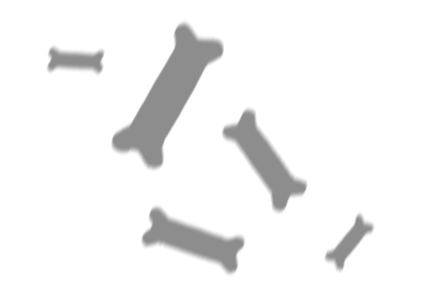
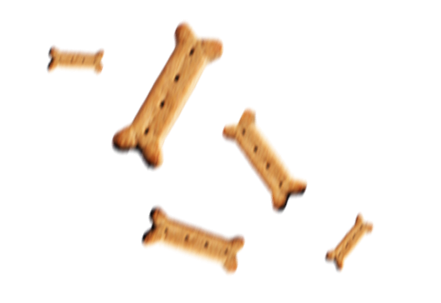
actualizacion huesos animados

diff --git a/css/style.css b/css/style.css
@@ -2506,7 +2506,6 @@ ul {font-size: 16px;}
 }
 
 
-.servicio_extra_tittle
-{
+.servicio_extra_tittle{
 	color: #222;
 }
